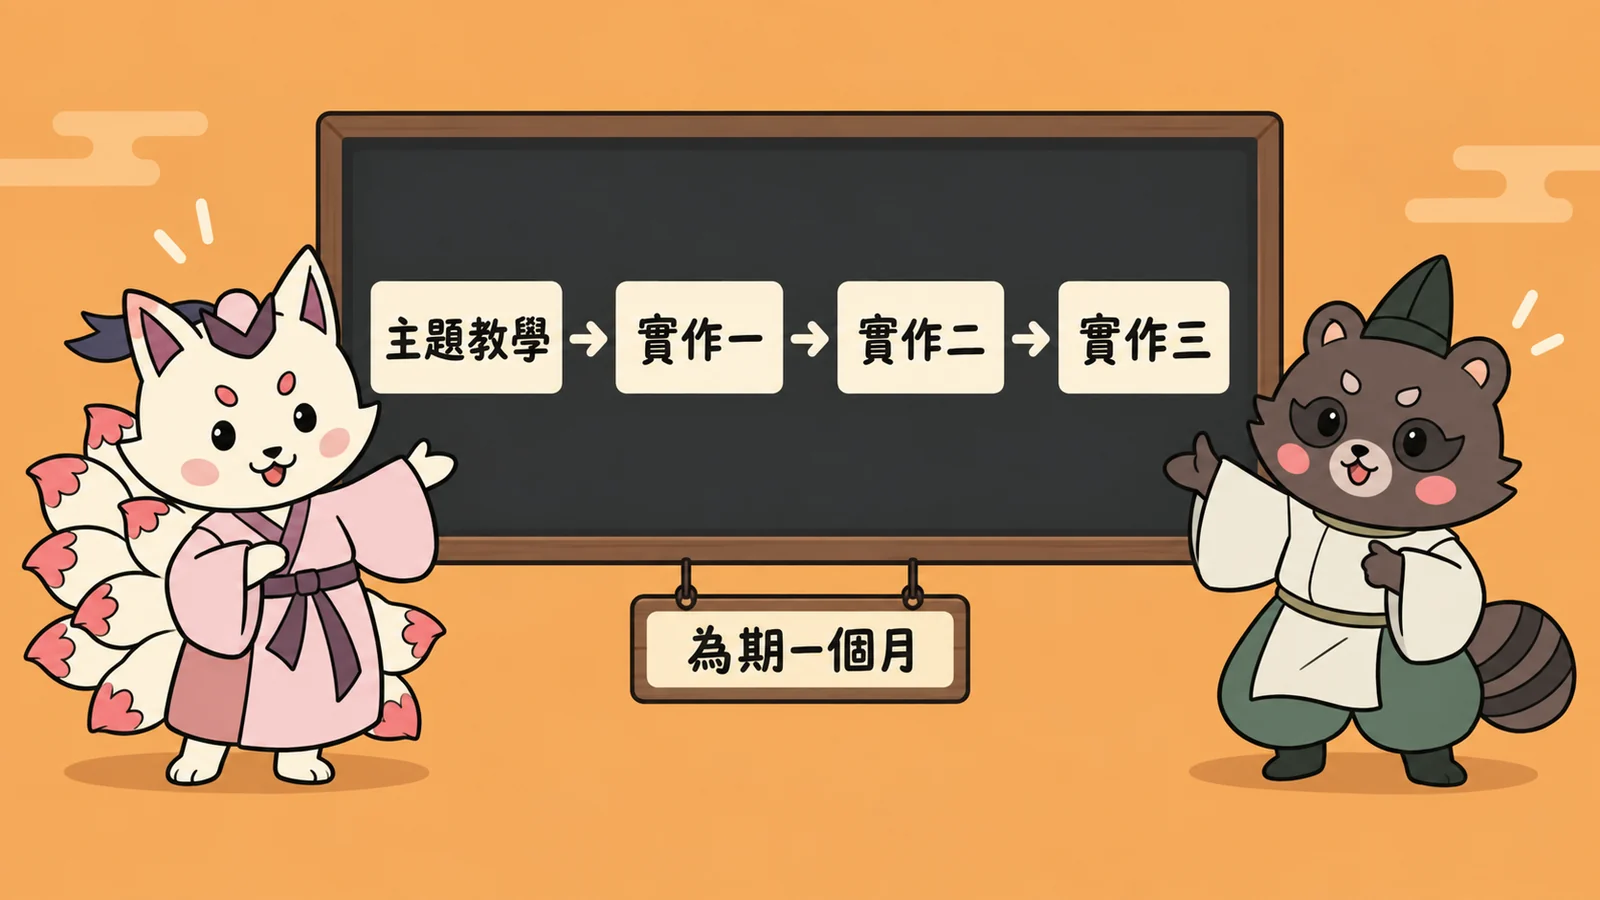
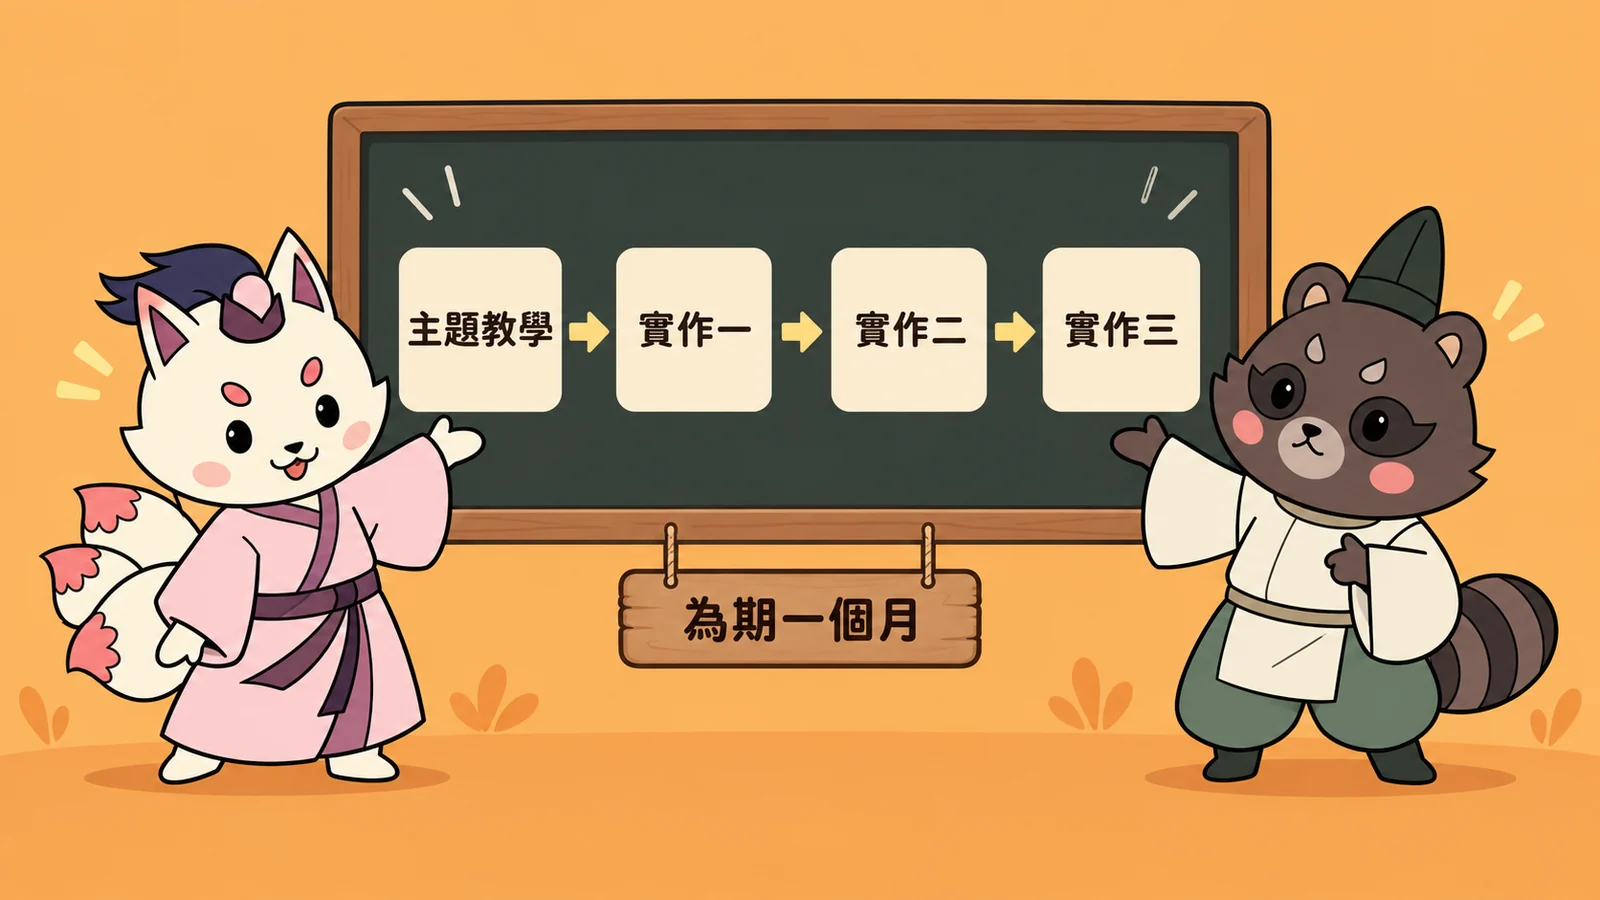
fix: 狐狸造型改正，尾巴由九條改為官方的三條
上一版狐狸畫成九條尾巴呈扇形展開，像孔雀開屏。原因是我在提示裡
寫了「九條帶粉紅尖端的尾巴」，那是憑先前的文字描述寫的，沒有回頭
對官方圖。官方的 mascot-fox.webp 與 wu-di-dora.png 都只有三條尾巴。

重新對著官方圖逐項描述後重生成：三條米白尾巴、尾端珊瑚粉鋸齒花瓣狀、
耳內深紫紅、兩眼上方粉紅水滴形斑紋、頭頂深藏青毛髮加紫褐圓髻、
深紫腰帶。狸貓的環狀尾巴、額頭斑紋、眼罩也一併核對。

需求單補上這段逐項描述，之後 21 張直接抄，不要再憑印象寫。

Claude-Session: https://claude.ai/code/session_015K1ipNq53sAn3uvQAWNMER

diff --git a/revamp/2026-09-24-illustration-redraw-spec.md b/revamp/2026-09-24-illustration-redraw-spec.md
@@ -20,8 +20,20 @@ codex exec -s workspace-write -C <site 目錄> \
   - < 提示檔.md
 ```
 
-提示檔要寫明：要生成**圖片檔**（不是 SVG 也不是程式碼）、附的兩張是官方吉祥物造型參考、
+提示檔要寫明：要生成**圖片檔**（不是 SVG 也不是程式碼）、附的圖是官方吉祥物造型參考、
 畫面內容、畫風（扁平向量、粗黑描邊、圓潤造型、暖橘背景、留白充足）、16:9。
+
+**吉祥物造型要逐項寫清楚，不要只說「照參考圖」。** 第一次只寫「九條尾巴」（那是錯的，
+而且是憑印象寫的），結果畫出孔雀開屏般的九尾。正確描述如下，改圖時直接抄這段：
+
+狐狸「朵拉」：米白偏奶油色身體；**只有三條尾巴**，米白、尾端珊瑚粉紅且邊緣呈鋸齒花瓣狀；
+耳尖立、耳內深紫紅；兩眼上方各一片粉紅水滴形斑紋，額頭中央再一片，臉頰圓形粉紅腮紅；
+頭頂深藏青毛髮向後翹起，前方一個紫褐色圓髻；淡粉紅和服、深紫色腰帶斜繫。
+
+狸貓「岈荹」：深褐色身體、耳內米色；額頭兩片米色水滴形斑紋；眼周深色大斑塊、口鼻灰白、
+鼻頭深色；墨綠色高尖帽；米白上衣配米色腰帶、墨綠寬褲、深色短靴；尾巴深淺相間環狀條紋。
+
+參考圖除了 `mascot-fox.webp`、`mascot-raccoon.webp`，也可以加 `public/img/partners/wu-di-dora.png`。
 產出後裁成 16:9 縮為 1600×900 存成 webp，放到 `public/media/illustrations/`，與站上其他插畫一致。
 
 注意：`codex exec` 的 prompt 要走 stdin（結尾那個 `-`），不然它會卡在等輸入。
